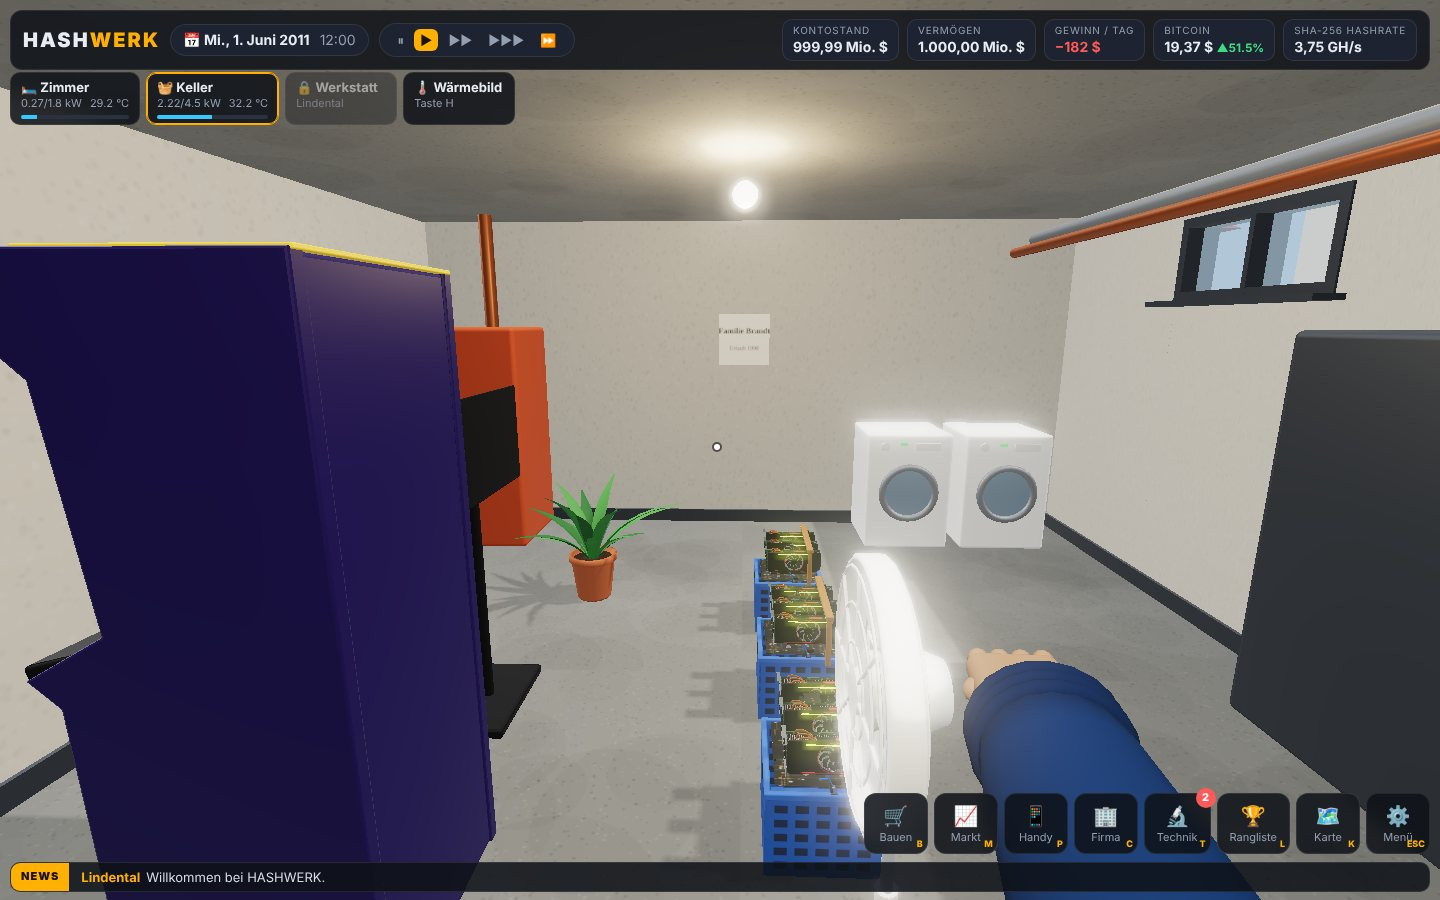
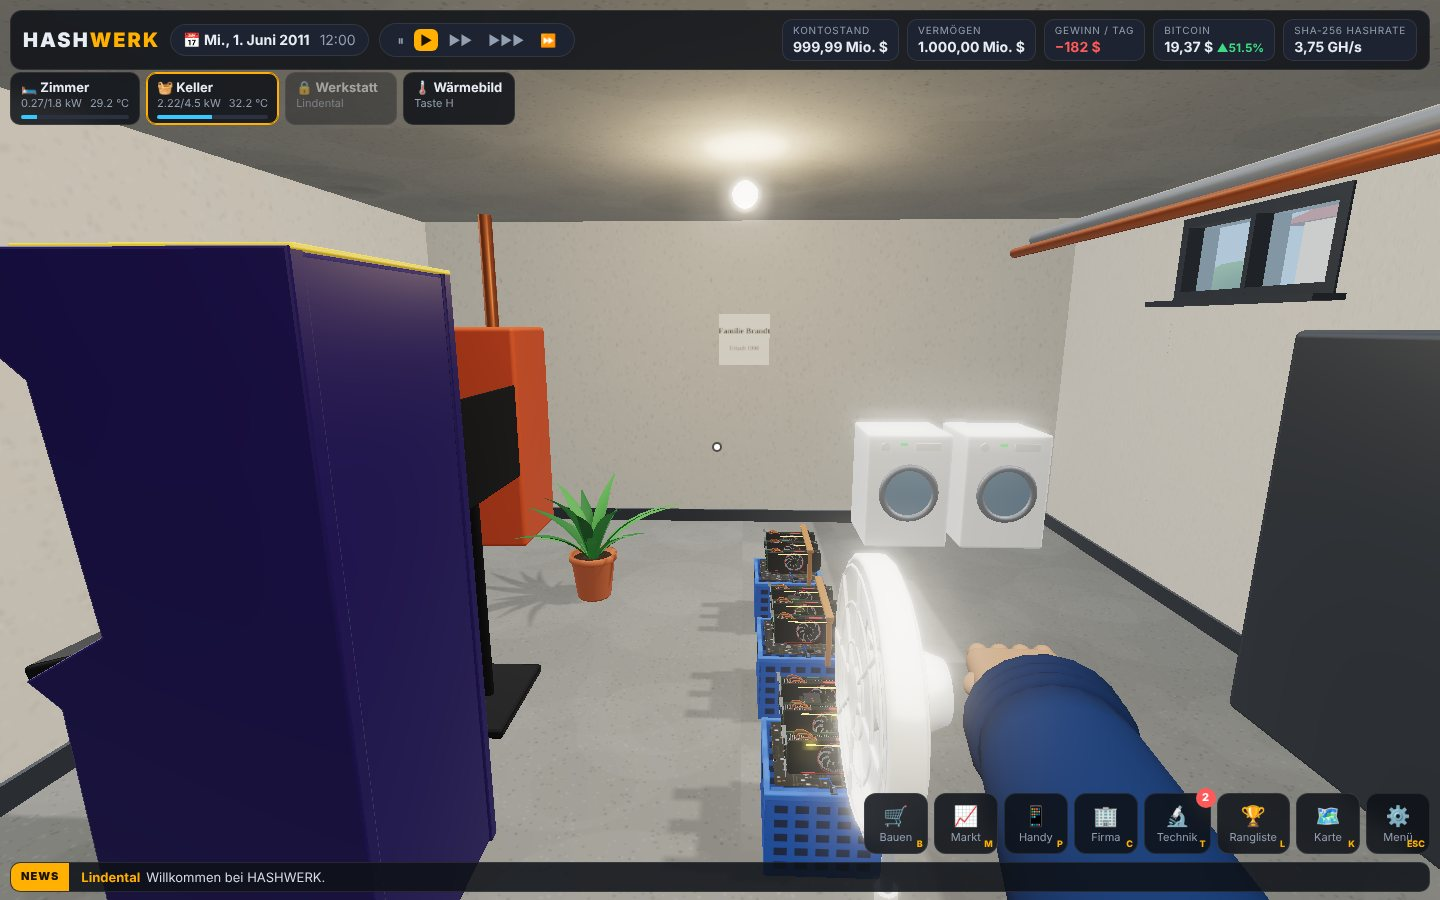
README: G key, hint bar note, cleaner basement/workshop screenshots
Claude-Session: https://claude.ai/code/session_01JGbmg2ChuwvUF5NnRHuTTo

diff --git a/README.md b/README.md
@@ -40,7 +40,7 @@ npm install
 npm run dev
 ```
 
-Dann <http://localhost:5173> öffnen. Statischer Build: `npm run build` (Ausgabe in `dist/`),
+Dann <http://localhost:5173> öffnen. Ein Hinweis-Balken oben führt Schritt für Schritt durch Kapitel 1. Statischer Build: `npm run build` (Ausgabe in `dist/`),
 Ein-Datei-Version neu bauen: `npm run build:single`.
 
 ## Was drin ist
@@ -97,6 +97,7 @@ Ein-Datei-Version neu bauen: `npm run build:single`.
 | Shift + Klick | Mehrfach bauen |
 | Entf (2×) | Angeschautes Gerät verkaufen |
 | M / P / C / T / L / K | Markt, Handy, Firma, Technik, Rangliste, Karte (Imperium) |
+| G | Ziel bezahlen (z. B. Papas Stromrechnung, Ladenschulden) |
 | H | Wärmebild |
 | F | Taschenlampe |
 | Leertaste, 1–4 | Pause, Tempo |
